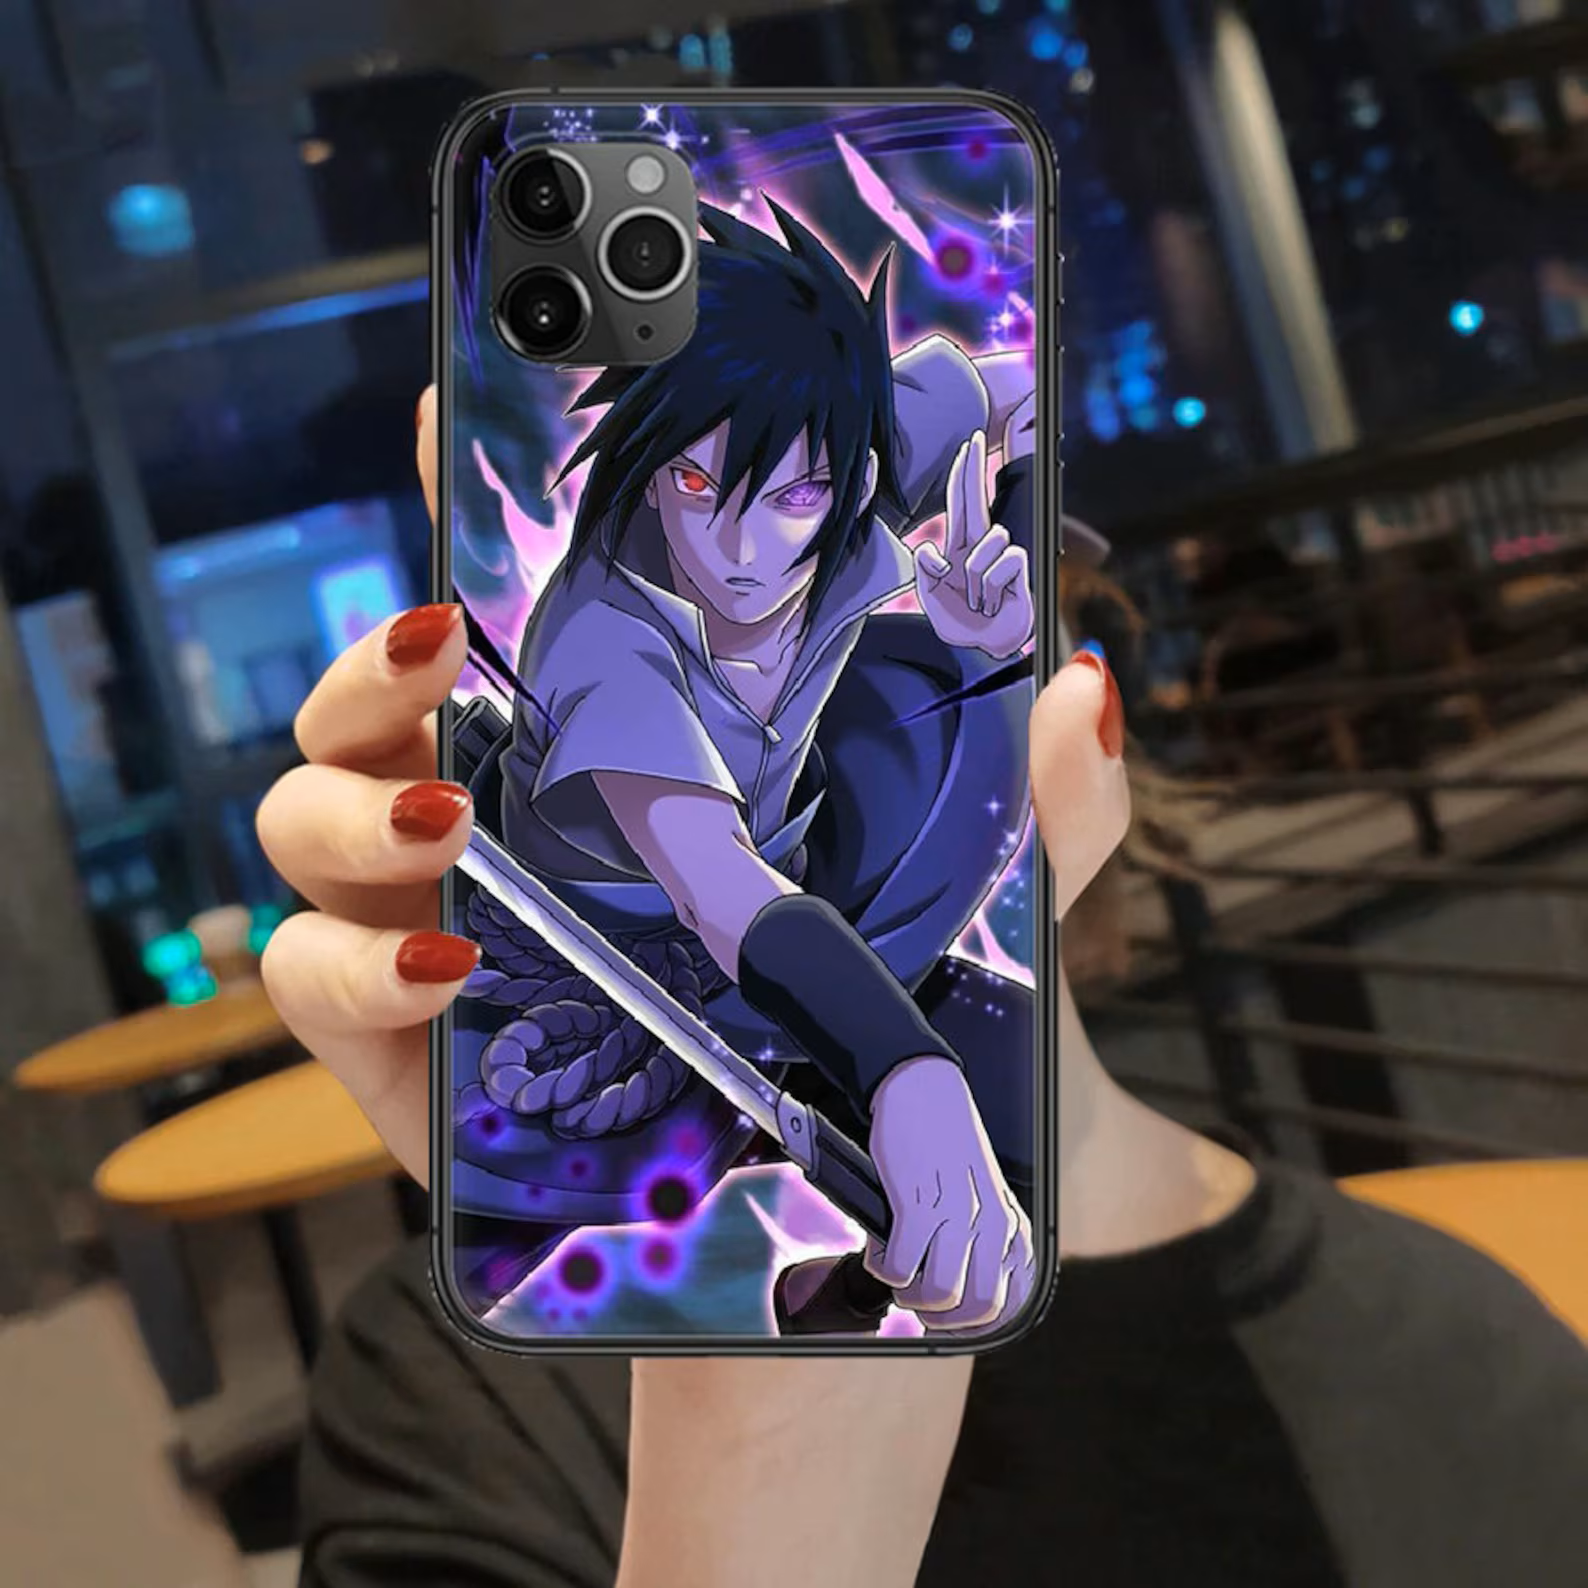
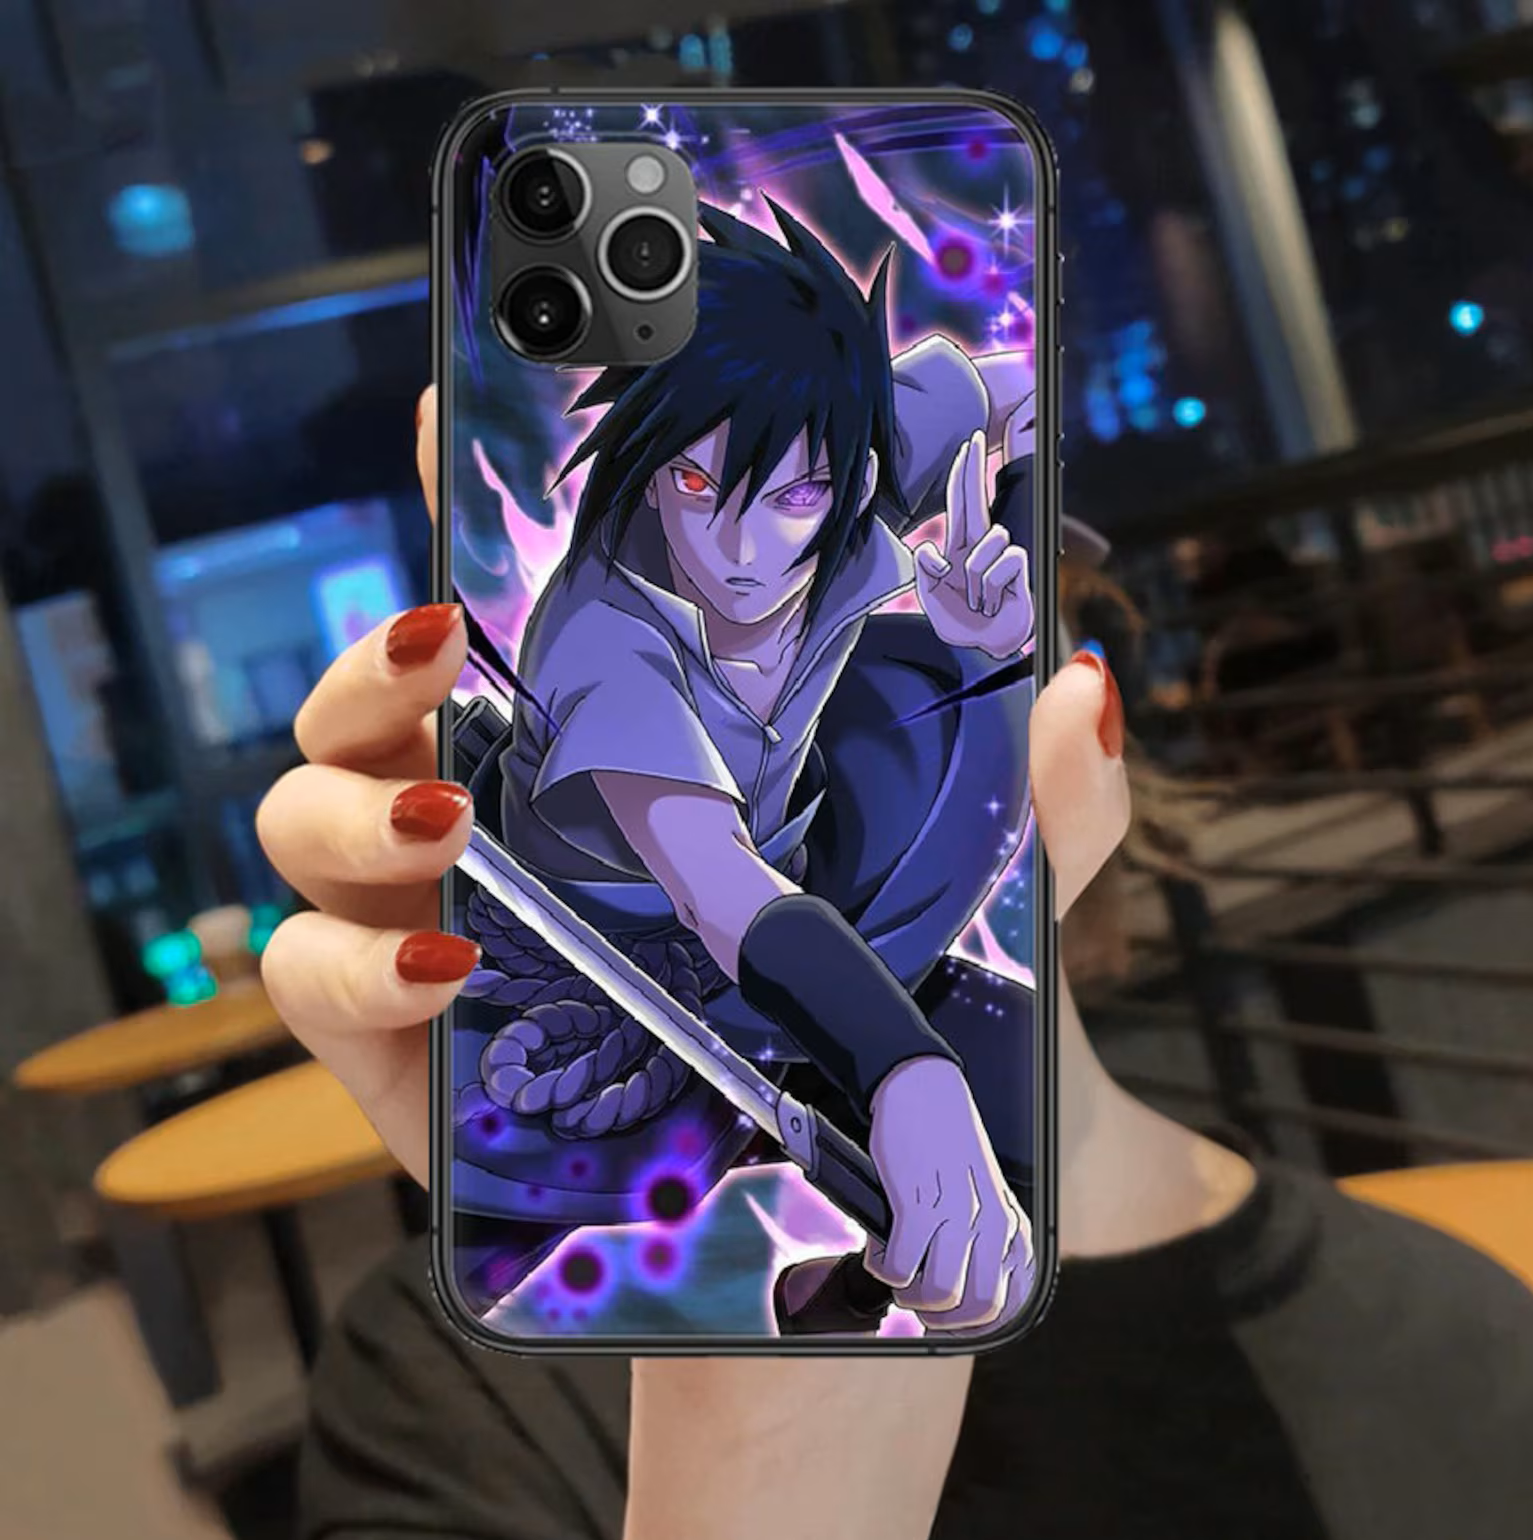
fixed:image error1

diff --git a/frontend/src/components/phoneHome/GallerySection.jsx b/frontend/src/components/phoneHome/GallerySection.jsx
@@ -2,7 +2,7 @@ import React, { useState } from 'react';
 import { ArrowRight, ChevronLeft, ChevronRight, Heart, X, ZoomIn } from 'lucide-react';
 
 import phonecase1 from "../../assets/custom/phonecase1.png"
-import phonecase2 from "../../assets/custom/phonecase2.png"
+import phonecase2 from "../../assets/custom/phonecase1.png"
 import phonecase3 from "../../assets/custom/phonecase3.png"
 import phonecase4 from "../../assets/custom/phonecase4.png"
 import phonecase5 from "../../assets/custom/phonecase5.png"
